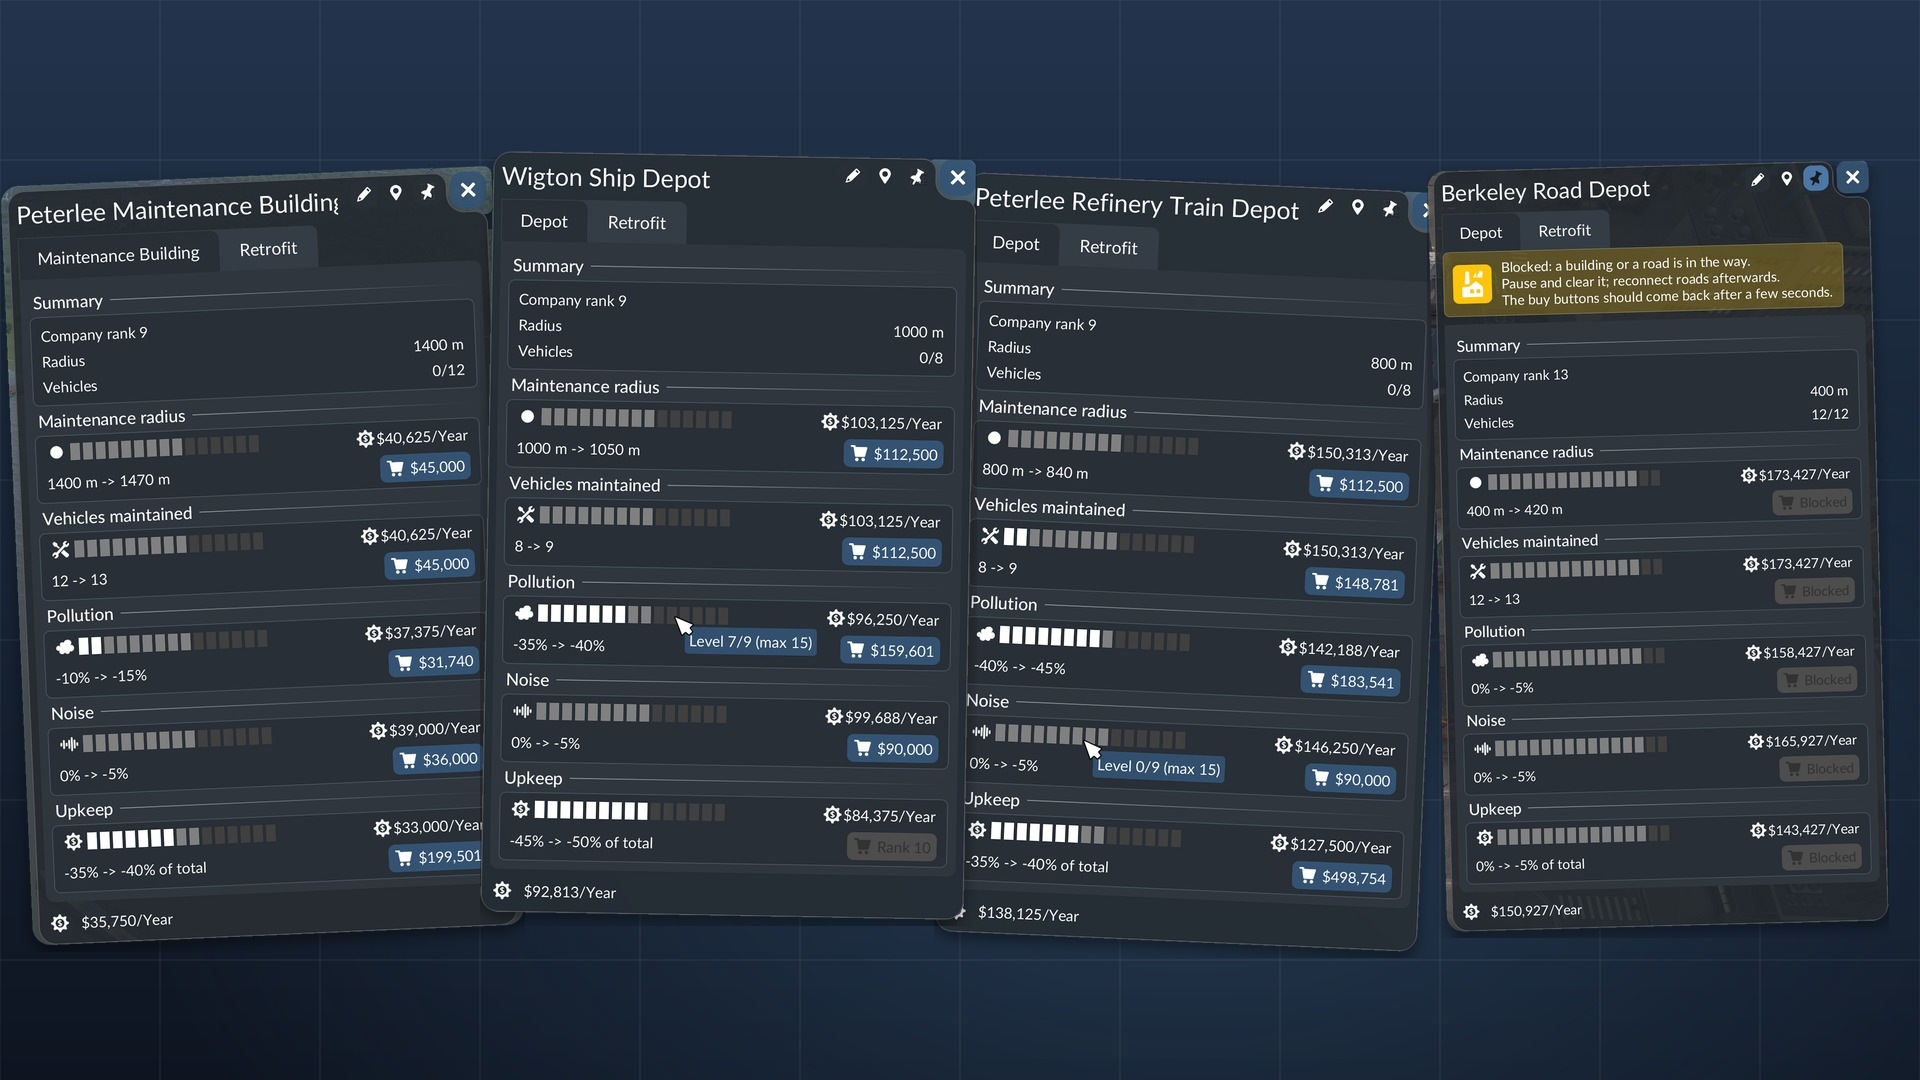
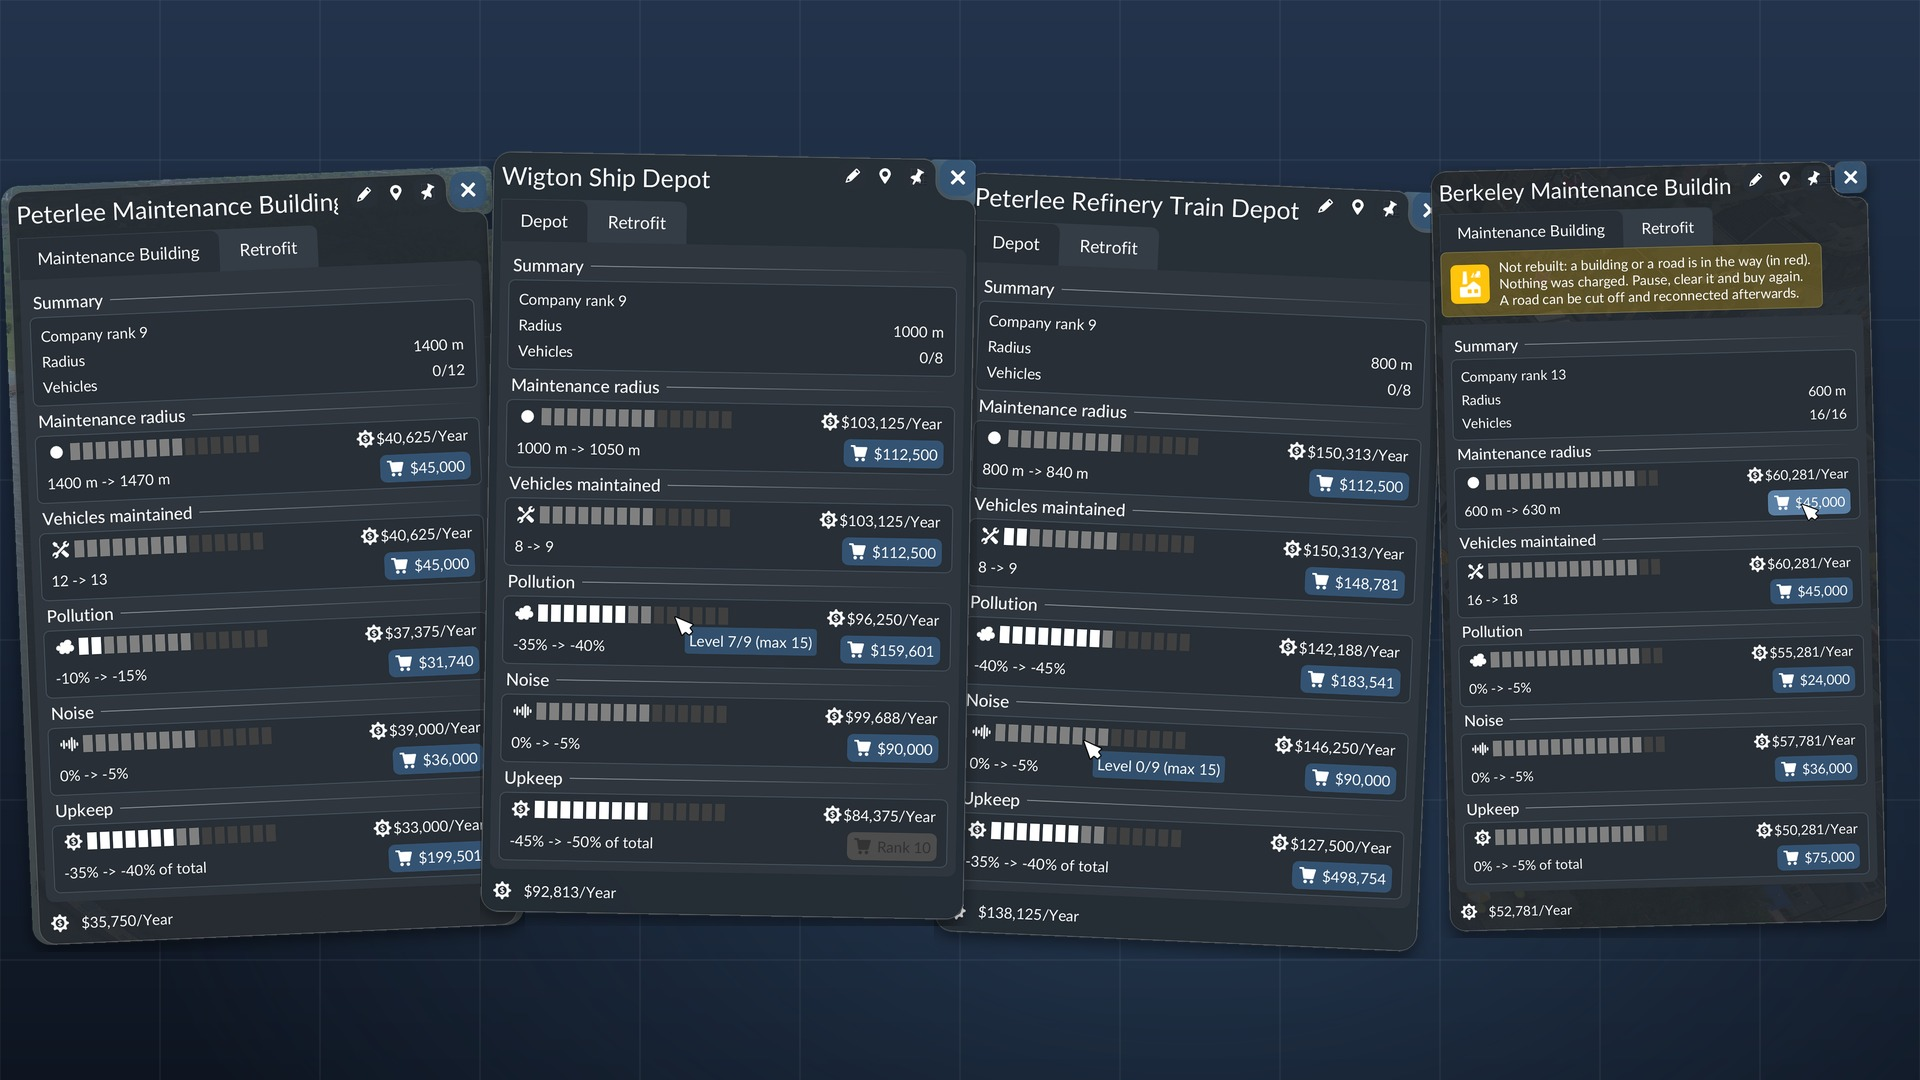
Retry test passed; gallery 2.jpg and 6.jpg show "Not rebuilt"
In "333", Berkeley Maintenance Building kept "Not rebuilt" up through
7 retries with the house standing and cleared it once the house was
bulldozed. The gallery's blocked road depot card and 6.jpg are retaken
from that building: the warning and the house in red, no red entrance.

diff --git a/tools/make_gallery.py b/tools/make_gallery.py
@@ -12,8 +12,8 @@ Cards are listed from the bottom of the pile to the top. angle is in degrees (po
 pixels, slot is its place from the left (default: its place in the list). --spacing (pixels between card centres, default
 560) and --card-height (default 880) fit more than three cards. Needs rsvg-convert, for the background.
 
-The current listing's 2.jpg (four Retrofit tabs, the last one blocked) was made from the crops in tools/gallery/ with:
-python3 tools/make_gallery.py --spacing 465 --card-height 760 depot_retrofits_1/_metadata/2.jpg tools/gallery/maintenance_building.png:2.5:16:0 tools/gallery/train_depot.png:-2.5:22:2 tools/gallery/ship_depot.png:-1:-4:1 tools/gallery/road_depot_blocked.png:1.5:6:3
+The current listing's 2.jpg (four Retrofit tabs, the last one showing "Not rebuilt") was made from the crops in tools/gallery/ with:
+python3 tools/make_gallery.py --spacing 465 --card-height 760 depot_retrofits_1/_metadata/2.jpg tools/gallery/maintenance_building.png:2.5:16:0 tools/gallery/train_depot.png:-2.5:22:2 tools/gallery/ship_depot.png:-1:-4:1 tools/gallery/maintenance_not_rebuilt.png:1.5:6:3
 """
 import subprocess
 import sys

diff --git a/TODO.md b/TODO.md
@@ -3,7 +3,7 @@
 ## In short
 
 - **Where it stands.** 1.1.1 is on mod.io (mod id 6495416) and tagged `v1.1.1`. Test results are in [docs/design/findings.md](docs/design/findings.md).
-- **Next.** 1.2 (on a branch): the check before a buy is gone, as it called buildings blocked that the game rebuilds. A click sends the buy, and a refused one shows "Not rebuilt" with what is in the way in red (the game's `ProposalViewer`, placed only after a refusal, since each viewer previews the rebuild in the world); tested in "333" at the fastest speed. Left for 1.2: test that the warning stays through a retry, retake the two gallery images that show "Blocked", then the release. The checks below are optional; the ideas at the bottom are not planned.
+- **Next.** 1.2 (on `main` as `1.2-dev`): the check before a buy is gone, as it called buildings blocked that the game rebuilds. A click sends the buy, and a refused one shows "Not rebuilt" with what is in the way in red (the game's `ProposalViewer`, placed only after a refusal, since each viewer previews the rebuild in the world); tested in "333" at the fastest speed, the warning stays through a retry, and the gallery shows it. Left for 1.2: the release. The checks below are optional; the ideas at the bottom are not planned.
 
 ## Release 1.0
 
@@ -18,8 +18,8 @@
 
 ## Release 1.2
 
-- [ ] Test that "Not rebuilt" stays through a retry on a building the game still refuses (Berkeley Maintenance Building in "333" with the house standing), and goes once the house is bulldozed.
-- [ ] Gallery: `2.jpg` (its fourth card, `tools/gallery/road_depot_blocked.png`) and `6.jpg` show the 1.1 "Blocked" tab. Retake both with the "Not rebuilt" warning and the obstacle in red.
+- [x] Test that "Not rebuilt" stays through a retry on a building the game still refuses (Berkeley Maintenance Building in "333" with the house standing), and goes once the house is bulldozed.
+- [x] Gallery: `2.jpg` (its fourth card, now `tools/gallery/maintenance_not_rebuilt.png`) and `6.jpg` showed the 1.1 "Blocked" tab. Both are retaken from Berkeley Maintenance Building with "Not rebuilt" and the house in red.
 - [ ] Release 1.2 ([docs/publishing.md](docs/publishing.md)).
 - [x] Optional: in "333", bulldoze only the buildings around Berkeley Road Depot (88894) and leave the road. The tab stayed blocked until the road was cut off, so the own-road rule does not clear that road; whether the game would refuse the rebuild is for the probe.
 

diff --git a/docs/design/findings.md b/docs/design/findings.md
@@ -322,3 +322,5 @@ A load of the 1915 save (`WR26A Giga-Tv3 1915 1101-0538 more mods`, rank 9) and 
 A further load of "333" (1.2-dev: the buy tried, "Not rebuilt" explained). 77 buys sent, 73 landed and charged, 4 refused with nothing charged. Berkeley Maintenance Building (150508, the rural one) took 13 levels, Berkeley Tram Depot 26, without a flash. Berkeley Maintenance Building (217856) was refused with the house in red; bulldozing it cleared the warning by itself, and 22 levels landed. Berkeley Road Depot (88894) was refused with the tall building (110793) and a block at its own entrance in red; with only the tall building bulldozed, the warning cleared and 12 levels landed, its road still connected. Later, at the fastest speed, the tab warned once for a buy that landed in the same second: it had waited 45 steps and one tick of `os.time` (since then it waits two ticks, and a clear viewer answer withdraws the warning).
 
 A further load of "333" at the fastest speed, waiting two ticks. 110 buys sent, 105 landed and charged, 5 refused with nothing charged, each refusal warned after 2 seconds (57 to 105 tab steps) and no false warning. Bulldozing the house (Berkeley Maintenance Building) and the tall building (Berkeley Road Depot) cleared the warning by itself, and 20 and 22 levels landed; Berkeley Road Depot's entrance stayed red until the tall building was gone. A click while the warning showed cleared it, and the game's second refusal brought it back 1 to 2 seconds later; the warning now stays through a retry.
+
+A further load of "333" at `full`, for the retry. 52 buys sent, 41 landed and charged, 11 refused with nothing charged (7 replaced by a retry, 4 given up after 3 seconds); each refusal warned after 2 seconds (52 to 113 tab steps). On Berkeley Maintenance Building (217856), with the house standing, "Not rebuilt" stayed up through 7 retries of the radius and vehicles levels, and the house stayed red. Bulldozing the house cleared the warning by itself, and 7 upkeep levels landed. Berkeley Road Depot (88894) was refused with the tall building and its own entrance in red; with the tall building bulldozed, the warning cleared and 34 levels landed, its road still connected.

diff --git a/README.md b/README.md
@@ -6,7 +6,7 @@ A Transport Fever 3 script mod: depots and maintenance buildings get levels that
 
 <p>
   <img src="depot_retrofits_1/_metadata/0.jpg" alt="Depot Retrofits: level up your depots" width="49%">
-  <img src="depot_retrofits_1/_metadata/2.jpg" alt="The Retrofit tab of three buildings, one card per retrofit" width="49%">
+  <img src="depot_retrofits_1/_metadata/2.jpg" alt="The Retrofit tab of four buildings, one card per retrofit; the last shows the Not rebuilt warning" width="49%">
 </p>
 
 ## In short
